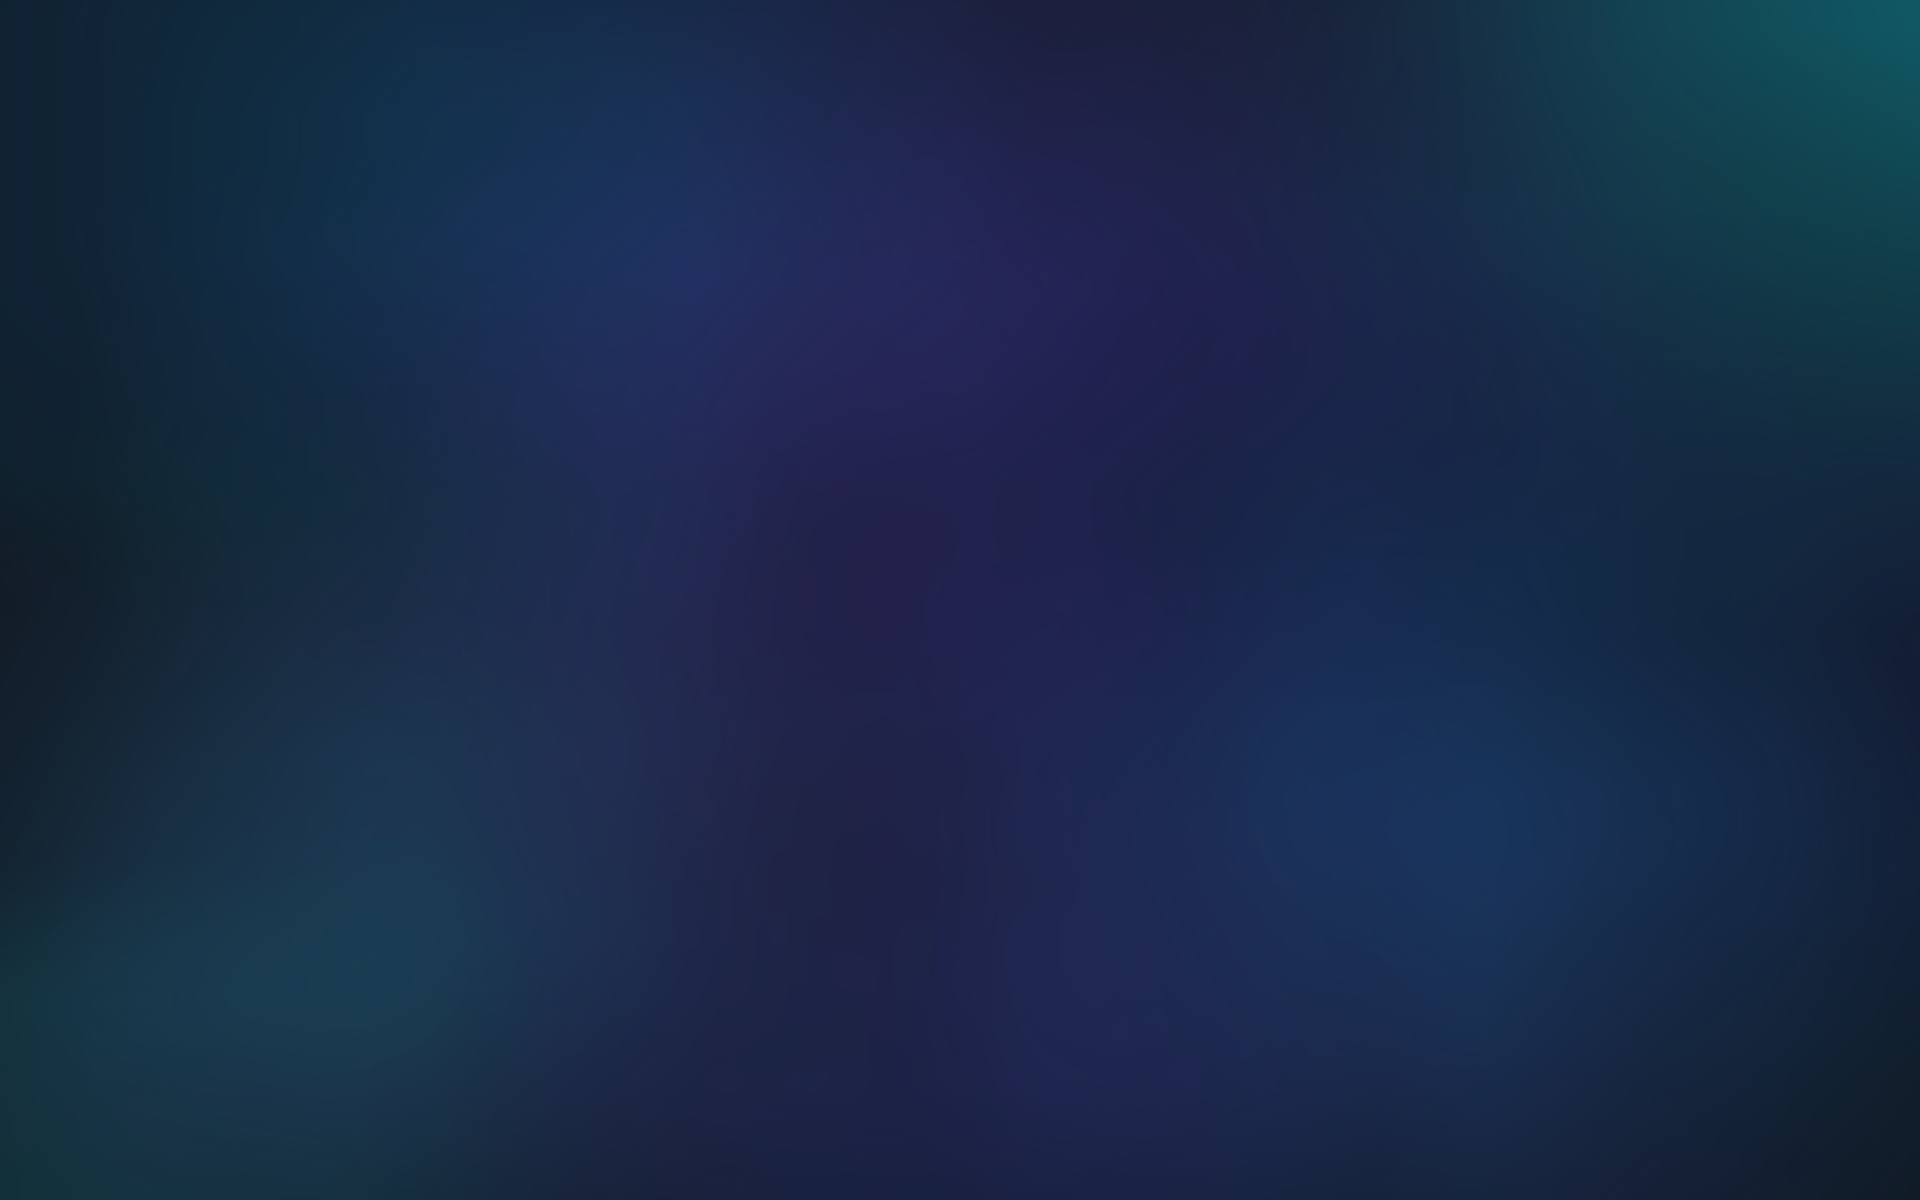
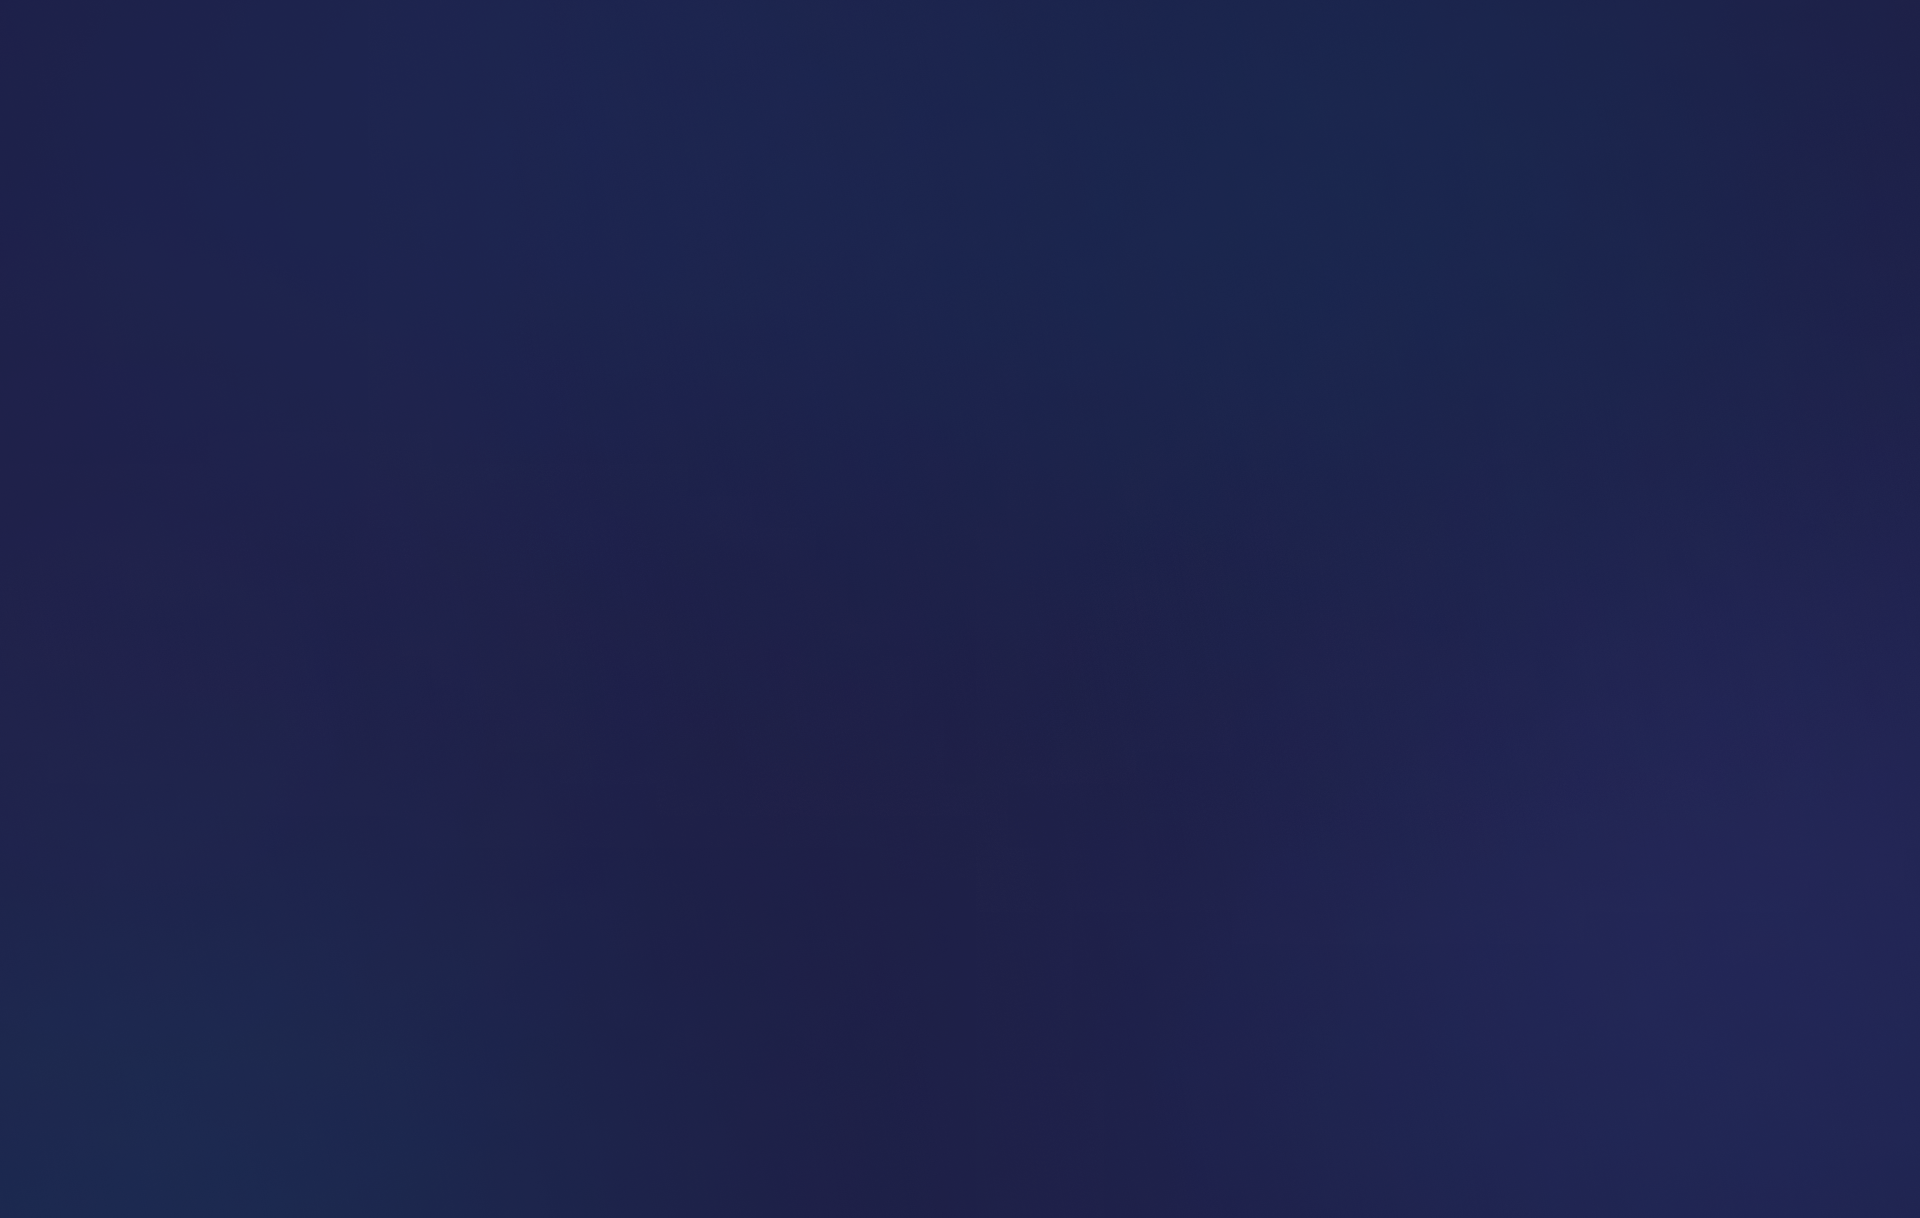
feat: panel component

diff --git a/src/lib/components/Panel.svelte b/src/lib/components/Panel.svelte
@@ -1,0 +1,13 @@
+<script lang="ts">
+	import type { Snippet } from 'svelte'
+	import type { HTMLAttributes } from 'svelte/elements'
+	import clsx from 'clsx'
+
+	interface Props extends HTMLAttributes<HTMLDivElement> {
+		children: Snippet
+	}
+
+	const { children, class: className, ...props }: Props = $props()
+</script>
+
+<div {...props} class={clsx('panel', className)}>{@render children()}</div>

diff --git a/src/stories/Panel.stories.svelte b/src/stories/Panel.stories.svelte
@@ -1,0 +1,13 @@
+<script lang="ts" context="module">
+	import { Panel } from '$lib/index'
+	import { defineMeta } from '@storybook/addon-svelte-csf'
+
+	const { Story } = defineMeta({
+		title: 'Components/Panel',
+		component: Panel
+	})
+</script>
+
+<Story name="Default">
+	<Panel>Hello</Panel>
+</Story>

diff --git a/src/lib/index.ts b/src/lib/index.ts
@@ -49,3 +49,6 @@ export { default as MenuItem } from './components/menu/MenuItem.svelte'
 
 // Tag
 export { default as Tag } from './components/Tag.svelte'
+
+// Panel
+export { default as Panel } from './components/Panel.svelte'

diff --git a/src/lib/stylesheets/globals.scss b/src/lib/stylesheets/globals.scss
@@ -4,6 +4,7 @@
 @import 'components/button';
 @import 'components/icon-button';
 @import 'components/tag';
+@import 'components/panel';
 
 $normal_font: 'IBM Plex Sans KR', sans-serif;
 

diff --git a/src/lib/stylesheets/components/_panel.scss b/src/lib/stylesheets/components/_panel.scss
@@ -1,0 +1,5 @@
+.panel {
+	border-radius: 12px;
+	background-color: rgba($darkblue, 0.2);
+	padding: 16px;
+}
